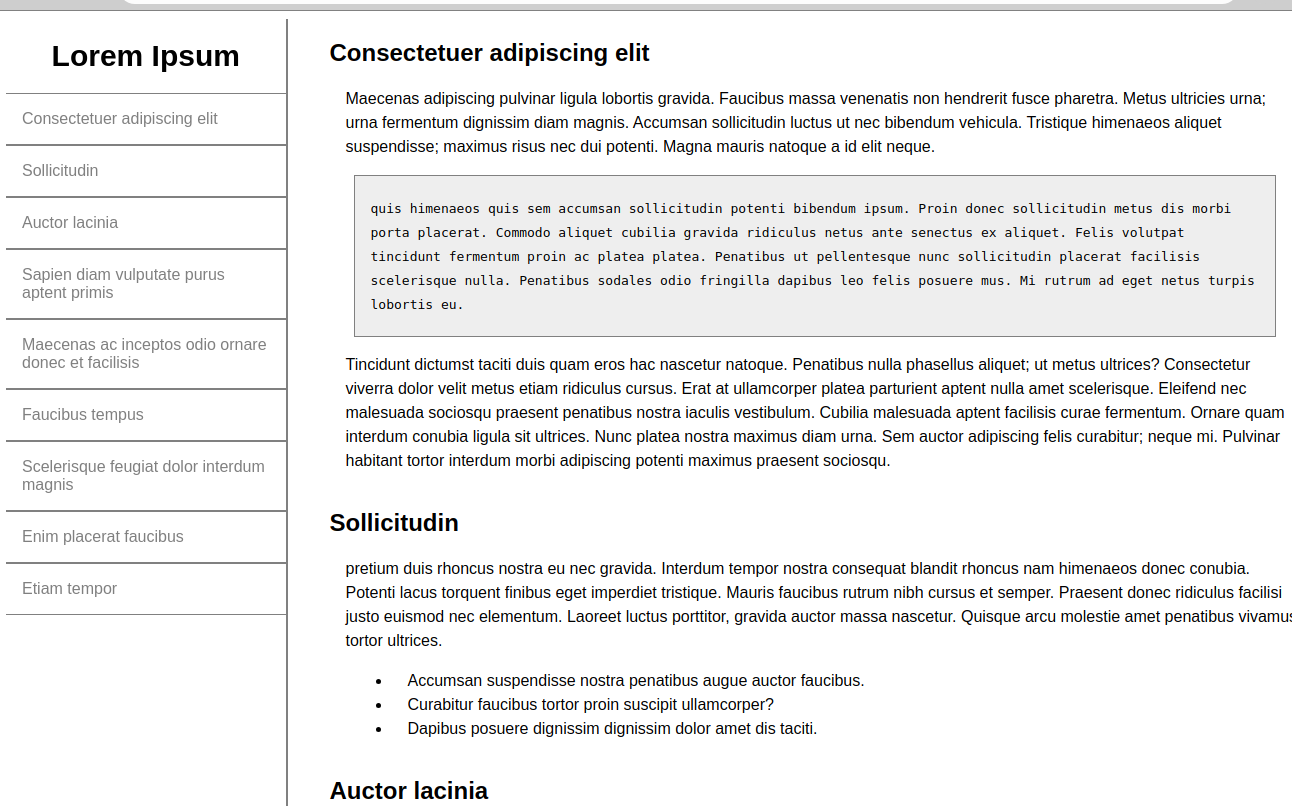
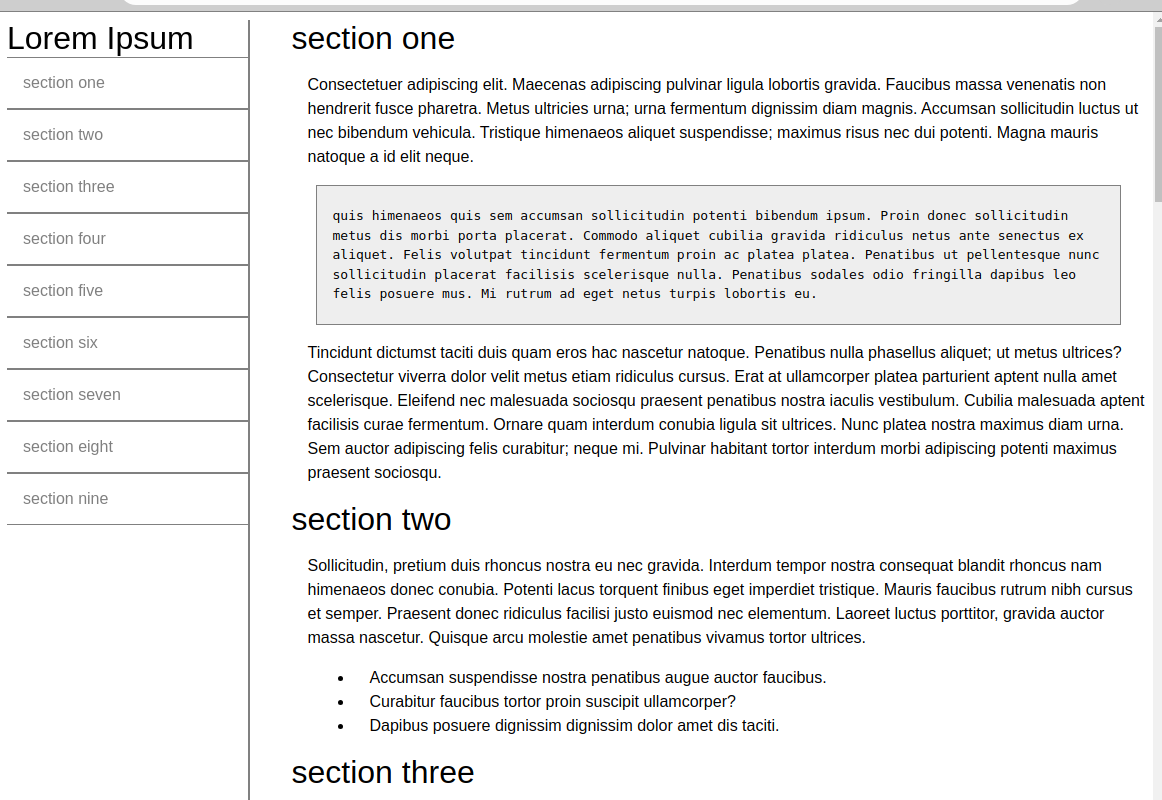
fixed issues with css to ensure it conforms to the project requirements

diff --git a/index.html b/index.html
@@ -7,77 +7,79 @@
         <link rel="stylesheet" href="style.css">
     </head>
     <body>
-        <div class="navigation">
-            <h1>Lorem Ipsum</h1>
+        <nav id="navbar" class="navigation">
+            <header>Lorem Ipsum</header>
             <ul>
-                <a href="#section-one"><li>Consectetuer adipiscing elit</li></a>
-                <a href="#section-two"><li>Sollicitudin</li></a>
-                <a href="#section-three"><li>Auctor lacinia</li></a>
-                <a href="#section-four"><li>Sapien diam vulputate purus aptent primis</li></a>
-                <a href="#section-five"><li>Maecenas ac inceptos odio ornare donec et facilisis</li></a>
-                <a href="#section-six"><li>Faucibus tempus</li></a>
-                <a href="#section-seven"><li>Scelerisque feugiat dolor interdum magnis</li></a>
-                <a href="#section-eight"><li>Enim placerat faucibus</li></a>
-                <a href="#section-nine"><li>Etiam tempor</li></a>            
+                <a href="#section-one" class="nav-link"><li>section one</li></a>
+                <a href="#section-two" class="nav-link"><li>section two</li></a>
+                <a href="#section-three" class="nav-link"><li>section three</li></a>
+                <a href="#section-four" class="nav-link"><li>section four</li></a>
+                <a href="#section-five" class="nav-link"><li>section five</li></a>
+                <a href="#section-six" class="nav-link"><li>section six</li></a>
+                <a href="#section-seven" class="nav-link"><li>section seven</li></a>
+                <a href="#section-eight" class="nav-link"><li>section eight</li></a>
+                <a href="#section-nine" class="nav-link"><li>section nine</li></a>            
             </ul>
-        </div>
-        <div class="content">
-            <section id="section-one">
-                <h2>Consectetuer adipiscing elit</h2>
-                <p>Maecenas adipiscing pulvinar ligula lobortis gravida. Faucibus massa venenatis non hendrerit fusce pharetra. Metus ultricies urna; urna fermentum dignissim diam magnis. Accumsan sollicitudin luctus ut nec bibendum vehicula. Tristique himenaeos aliquet suspendisse; maximus risus nec dui potenti. Magna mauris natoque a id elit neque.</p>
-                <p class="codeblock"><code>quis himenaeos quis sem accumsan sollicitudin potenti bibendum ipsum. Proin donec sollicitudin metus dis morbi porta placerat. Commodo aliquet cubilia gravida ridiculus netus ante senectus ex aliquet. Felis volutpat tincidunt fermentum proin ac platea platea. Penatibus ut pellentesque nunc sollicitudin placerat facilisis scelerisque nulla. Penatibus sodales odio fringilla dapibus leo felis posuere mus. Mi rutrum ad eget netus turpis lobortis eu.</code></p>
+        </nav>
+        <main class="content" id="main-doc">
+            <section id="section-one" class="main-section">
+                <header>section one</header>
+                <p>Consectetuer adipiscing elit. Maecenas adipiscing pulvinar ligula lobortis gravida. Faucibus massa venenatis non hendrerit fusce pharetra. Metus ultricies urna; urna fermentum dignissim diam magnis. Accumsan sollicitudin luctus ut nec bibendum vehicula. Tristique himenaeos aliquet suspendisse; maximus risus nec dui potenti. Magna mauris natoque a id elit neque.</p>
+                <code><p class="codeblock">quis himenaeos quis sem accumsan sollicitudin potenti bibendum ipsum. Proin donec sollicitudin metus dis morbi porta placerat. Commodo aliquet cubilia gravida ridiculus netus ante senectus ex aliquet. Felis volutpat tincidunt fermentum proin ac platea platea. Penatibus ut pellentesque nunc sollicitudin placerat facilisis scelerisque nulla. Penatibus sodales odio fringilla dapibus leo felis posuere mus. Mi rutrum ad eget netus turpis lobortis eu.</p></code>
                 <p>Tincidunt dictumst taciti duis quam eros hac nascetur natoque. Penatibus nulla phasellus aliquet; ut metus ultrices? Consectetur viverra dolor velit metus etiam ridiculus cursus. Erat at ullamcorper platea parturient aptent nulla amet scelerisque. Eleifend nec malesuada sociosqu praesent penatibus nostra iaculis vestibulum. Cubilia malesuada aptent facilisis curae fermentum. Ornare quam interdum conubia ligula sit ultrices. Nunc platea nostra maximus diam urna. Sem auctor adipiscing felis curabitur; neque mi. Pulvinar habitant tortor interdum morbi adipiscing potenti maximus praesent sociosqu.</p>
             </section>
-            <section id="section-two">
-                <h2>Sollicitudin</h2>
-                <p>pretium duis rhoncus nostra eu nec gravida. Interdum tempor nostra consequat blandit rhoncus nam himenaeos donec conubia. Potenti lacus torquent finibus eget imperdiet tristique. Mauris faucibus rutrum nibh cursus et semper. Praesent donec ridiculus facilisi justo euismod nec elementum. Laoreet luctus porttitor, gravida auctor massa nascetur. Quisque arcu molestie amet penatibus vivamus tortor ultrices.</p>
+            <section id="section-two" class="main-section">
+                <header>section two</header>
+                <p>Sollicitudin, pretium duis rhoncus nostra eu nec gravida. Interdum tempor nostra consequat blandit rhoncus nam himenaeos donec conubia. Potenti lacus torquent finibus eget imperdiet tristique. Mauris faucibus rutrum nibh cursus et semper. Praesent donec ridiculus facilisi justo euismod nec elementum. Laoreet luctus porttitor, gravida auctor massa nascetur. Quisque arcu molestie amet penatibus vivamus tortor ultrices.</p>
                 <ul>
                     <li>Accumsan suspendisse nostra penatibus augue auctor faucibus.</li>
                     <li>Curabitur faucibus tortor proin suscipit ullamcorper?</li>
                     <li>Dapibus posuere dignissim dignissim dolor amet dis taciti.</li>
                 </ul>
             </section>
-            <section id="section-three">
-                <h2>Auctor lacinia</h2>
-                <p>Pretium potenti pretium donec ornare. Porttitor congue etiam vel proin sagittis nisl etiam senectus. Tristique enim enim dignissim porttitor luctus quisque metus ridiculus. Montes facilisi quisque pulvinar tempor finibus nascetur erat. Et metus fringilla quam suscipit bibendum auctor rhoncus; dui fames. Amet dolor urna euismod per senectus tristique per. Parturient torquent dignissim integer habitant enim. Cursus maximus volutpat congue ridiculus ornare lacinia semper urna. Convallis parturient eu id tincidunt hac luctus facilisis.</p>
+            <section id="section-three" class="main-section">
+                <header>section three</header>
+                <p>Auctor lacinia. Pretium potenti pretium donec ornare. Porttitor congue etiam vel proin sagittis nisl etiam senectus. Tristique enim enim dignissim porttitor luctus quisque metus ridiculus. Montes facilisi quisque pulvinar tempor finibus nascetur erat. Et metus fringilla quam suscipit bibendum auctor rhoncus; dui fames. Amet dolor urna euismod per senectus tristique per. Parturient torquent dignissim integer habitant enim. Cursus maximus volutpat congue ridiculus ornare lacinia semper urna. Convallis parturient eu id tincidunt hac luctus facilisis.</p>
                 <p>Condimentum libero placerat tristique erat amet scelerisque feugiat.</p>
-                <p class="codeblock">Convallis metus rutrum leo molestie fames aptent litora. Phasellus vehicula mollis integer, lacus vestibulum volutpat. Magnis et molestie viverra id ad placerat enim lacinia facilisis? Venenatis risus suscipit ex mus tempor habitasse suscipit. Ante dolor habitant eleifend, potenti habitant class. Fames faucibus eu sociosqu nisi ultricies varius suspendisse suscipit senectus.</p>
+                <code><p class="codeblock">Convallis metus rutrum leo molestie fames aptent litora. Phasellus vehicula mollis integer, lacus vestibulum volutpat. Magnis et molestie viverra id ad placerat enim lacinia facilisis? Venenatis risus suscipit ex mus tempor habitasse suscipit. Ante dolor habitant eleifend, potenti habitant class. Fames faucibus eu sociosqu nisi ultricies varius suspendisse suscipit senectus.</p></code>
                 <p>At ornare cras dui natoque imperdiet aptent eros. Augue nibh nulla finibus potenti eget egestas. Nullam ex erat primis massa consequat. Hendrerit varius duis fermentum magnis, accumsan mi dignissim donec fringilla. Pharetra lacinia vulputate iaculis velit purus euismod. Fames integer tempus nec, eleifend venenatis lacus? Vitae interdum torquent pharetra nunc ut hac nulla ultrices. Volutpat nam scelerisque vivamus habitant curabitur. Ut himenaeos suspendisse nec ultricies aenean auctor.</p>
                 <p>Potenti felis fames cursus facilisi taciti mattis.</p>
-                <p class="codeblock">Nam himenaeos malesuada ante facilisi venenatis interdum habitasse lobortis elit. Elit curabitur tortor eleifend dapibus orci non posuere sed. Proin imperdiet enim purus a ante erat? Accumsan nunc viverra diam interdum fringilla nibh torquent. Pharetra aliquet litora vestibulum a phasellus netus dictumst. Convallis lobortis in rutrum maximus augue vehicula. Erat ultrices elementum aliquam phasellus cubilia convallis velit libero. Nisl est fames hac felis imperdiet morbi malesuada pretium mus. Etiam senectus elementum est aenean interdum adipiscing.</p>
+                <code><p class="codeblock">Nam himenaeos malesuada ante facilisi venenatis interdum habitasse lobortis elit. Elit curabitur tortor eleifend dapibus orci non posuere sed. Proin imperdiet enim purus a ante erat? Accumsan nunc viverra diam interdum fringilla nibh torquent. Pharetra aliquet litora vestibulum a phasellus netus dictumst. Convallis lobortis in rutrum maximus augue vehicula. Erat ultrices elementum aliquam phasellus cubilia convallis velit libero. Nisl est fames hac felis imperdiet morbi malesuada pretium mus. Etiam senectus elementum est aenean interdum adipiscing.</p></code>
             </section>
-            <section id="section-four">
-                <h2>Sapien diam vulputate purus aptent primis</h2>
-                <p>Curae praesent fringilla. Lobortis purus duis maximus taciti finibus; et taciti sodales. Efficitur enim habitasse sociosqu viverra magnis nunc laoreet. Sapien quisque nisi vestibulum mus, dapibus mus. Fusce arcu ac hac euismod aliquet tortor. Libero tempus nulla ex cras pharetra non vestibulum integer. Risus quisque interdum varius nisl arcu consectetur ex maecenas. Bibendum donec ex eleifend; efficitur sagittis mattis. Nullam porta ultrices arcu pharetra ligula sed.</p>
+            <section id="section-four" class="main-section">
+                <header>section-four</header>
+                <p>Sapien diam vulputate purus aptent primis. Curae praesent fringilla. Lobortis purus duis maximus taciti finibus; et taciti sodales. Efficitur enim habitasse sociosqu viverra magnis nunc laoreet. Sapien quisque nisi vestibulum mus, dapibus mus. Fusce arcu ac hac euismod aliquet tortor. Libero tempus nulla ex cras pharetra non vestibulum integer. Risus quisque interdum varius nisl arcu consectetur ex maecenas. Bibendum donec ex eleifend; efficitur sagittis mattis. Nullam porta ultrices arcu pharetra ligula sed.</p>
                 <ul>
                     <li>Magna vehicula ridiculus erat ultrices mus cras parturient.</li>
                     <li>Scelerisque erat curae leo diam sociosqu magna venenatis massa senectus.</li>
                 </ul>
                 <p>Iaculis ullamcorper tristique ridiculus potenti habitasse vehicula parturient venenatis imperdiet. Lacinia libero cursus fringilla conubia tristique. Mollis ullamcorper leo ac pellentesque torquent nibh. Imperdiet convallis arcu iaculis libero praesent, montes facilisis etiam duis. Ex congue proin parturient curabitur curae augue amet iaculis. Maecenas efficitur ad est ultrices libero. Augue blandit tristique sit ac tellus odio mi.</p>
             </section>
-            <section id="section-five">
-                <h2>Maecenas ac inceptos odio ornare donec et facilisis</h2>
-                <p>Vivamus varius gravida ut phasellus nunc nullam pretium maximus. Euismod maximus tincidunt finibus phasellus fringilla ut aenean. Dictum in commodo purus curae potenti sit. Sollicitudin velit cubilia cursus vivamus luctus faucibus ornare ullamcorper. Porta eros dapibus proin eros magna; accumsan habitasse volutpat sociosqu. Metus rutrum nascetur faucibus primis maecenas nunc tempor. Et dui leo risus euismod adipiscing nullam.</p>
+            <section id="section-five" class="main-section">
+                <header>section five</header>
+                <p>Maecenas ac inceptos odio ornare donec et facilisis. Vivamus varius gravida ut phasellus nunc nullam pretium maximus. Euismod maximus tincidunt finibus phasellus fringilla ut aenean. Dictum in commodo purus curae potenti sit. Sollicitudin velit cubilia cursus vivamus luctus faucibus ornare ullamcorper. Porta eros dapibus proin eros magna; accumsan habitasse volutpat sociosqu. Metus rutrum nascetur faucibus primis maecenas nunc tempor. Et dui leo risus euismod adipiscing nullam.</p>
             </section>
-            <section id="section-six">
-                <h2>Faucibus tempus</h2>
-                <p>Sollicitudin dictum; gravida primis arcu sollicitudin aliquet. Vulputate adipiscing conubia sociosqu rutrum curabitur, purus mus nisi. Sed montes per velit vivamus habitant curae amet conubia. Posuere torquent euismod posuere enim augue quam dictum lobortis. Eu vestibulum imperdiet integer ornare, diam fringilla. Amet primis nisl dignissim, eu tempus at.</p>
+            <section id="section-six" class="main-section">
+                <header>section six</header>
+                <p>Faucibus tempus Sollicitudin dictum; gravida primis arcu sollicitudin aliquet. Vulputate adipiscing conubia sociosqu rutrum curabitur, purus mus nisi. Sed montes per velit vivamus habitant curae amet conubia. Posuere torquent euismod posuere enim augue quam dictum lobortis. Eu vestibulum imperdiet integer ornare, diam fringilla. Amet primis nisl dignissim, eu tempus at.</p>
             </section>
-            <section id="section-seven">
-                <h2>Scelerisque feugiat dolor interdum magnis</h2>
+            <section id="section-seven" class="main-section">
+                <header>section seven</header>
+                <p>Scelerisque feugiat dolor interdum magnis.</p>
                 <p>Fringilla facilisi risus efficitur. Purus mattis vel posuere est ullamcorper, elit ligula class. Nibh eget sollicitudin neque varius a aenean. Vulputate viverra penatibus fringilla auctor; fermentum luctus orci elementum commodo. Eget ultricies sagittis neque fermentum dapibus. Pretium lacus sociosqu dapibus lacinia, vehicula aptent. Id platea accumsan penatibus tortor pulvinar diam et vitae?</p>
                 <p>Fermentum pulvinar elit fermentum eleifend varius fusce sem. Nisi tristique semper hendrerit porta platea facilisis. Ultrices dignissim quam convallis mollis lectus. Magnis aptent nibh tortor ultrices quis pharetra dis. Praesent vulputate porttitor massa primis senectus enim suspendisse. Ipsum scelerisque orci dolor turpis neque facilisis elementum. Acurae tellus curabitur blandit eget aenean. Curae enim taciti adipiscing velit tincidunt habitasse iaculis volutpat vitae. Facilisis tempus euismod, proin id elementum diam faucibus curabitur.</p>
-                <p class="codeblock">Natoque suspendisse sem lectus integer facilisis a malesuada. Varius phasellus amet egestas diam parturient accumsan. Efficitur commodo penatibus venenatis quam litora tincidunt ipsum. Potenti mattis diam in magnis viverra enim lacus dolor. Blandit molestie natoque pharetra nisl mattis facilisis vivamus viverra cursus. Adipiscing odio imperdiet quisque mattis habitasse elit. Auctor lorem nulla eleifend sollicitudin facilisi.</p>
+                <code><p class="codeblock">Natoque suspendisse sem lectus integer facilisis a malesuada. Varius phasellus amet egestas diam parturient accumsan. Efficitur commodo penatibus venenatis quam litora tincidunt ipsum. Potenti mattis diam in magnis viverra enim lacus dolor. Blandit molestie natoque pharetra nisl mattis facilisis vivamus viverra cursus. Adipiscing odio imperdiet quisque mattis habitasse elit. Auctor lorem nulla eleifend sollicitudin facilisi.</p></code>
                 <p>Morbi aptent pharetra taciti scelerisque viverra. Imperdiet platea finibus class est tristique diam tincidunt. Dictum enim risus cras quis lectus posuere; turpis integer. Erat dis quam ut ullamcorper lectus elit nunc potenti litora. Mus himenaeos egestas aptent nullam hendrerit arcu lacinia. Lacinia leo ipsum adipiscing elit taciti nostra ligula bibendum nulla. Ultricies potenti porta a fusce curabitur aliquam pharetra nam integer. Facilisis feugiat a massa habitasse varius. Placerat est sem praesent non nullam habitant hendrerit.</p>
             </section>
-            <section id="section-eight">
-                <h2>Enim placerat faucibus</h2>
+            <section id="section-eight" class="main-section">
+                <header>section eight</header>
                 <p>Ornare rhoncus nascetur orci. Pretium etiam risus scelerisque mauris fusce faucibus accumsan litora. Viverra orci ante tempus litora ultrices habitant parturient. In nulla euismod ornare interdum class senectus suspendisse montes. Pharetra porta mus vulputate at mollis himenaeos sed integer tempus. Nisl fusce mattis ut nullam litora; porttitor praesent primis quisque. Tristique fringilla ornare facilisis porta dolor curae eleifend. Porta dignissim suscipit eget congue fringilla donec himenaeos. Consectetur quisque dolor fames, condimentum cursus maecenas vitae praesent.</p>
-                <p>Porta metus augue vivamus; sollicitudin lacus ut?</p>
+                <code><p class="codeblock">Porta metus augue vivamus; sollicitudin lacus ut?</p></code>
+                <p>Enim placerat faucibus</p>
             </section>
-            <section id="section-nine">
-                <h2>Etiam tempor</h2>
-                <p>Eulputate aptent ex efficitur scelerisque. Auctor tempus eleifend felis rhoncus proin et tortor lectus. Litora nascetur interdum porttitor sociosqu est. Tempus eleifend ante maximus tempor viverra. Cubilia nisl amet purus nec adipiscing convallis quam. Gravida taciti montes lobortis taciti facilisis nullam hac finibus?</p>
+            <section id="section-nine" class="main-section">
+                <header>section nine</header>
+                <p>Etiam tempor eulputate aptent ex efficitur scelerisque. Auctor tempus eleifend felis rhoncus proin et tortor lectus. Litora nascetur interdum porttitor sociosqu est. Tempus eleifend ante maximus tempor viverra. Cubilia nisl amet purus nec adipiscing convallis quam. Gravida taciti montes lobortis taciti facilisis nullam hac finibus?</p>
                 <ul>
                     <li>Lobortis pulvinar sapien donec conubia vitae neque.</li>
                     <li>Ac a sit hendrerit lorem non fermentum.</li>
@@ -86,6 +88,6 @@
                 </ul>
                 <p>Sapien vitae quam senectus conubia enim erat dis vestibulum. Orci duis sem et aliquet congue, diam fermentum. Per eu enim taciti magnis congue torquent torquent sit? Enim sapien curae feugiat fames felis montes vehicula ante molestie. Fermentum tristique fusce pellentesque congue amet mi fermentum. Ridiculus torquent finibus lorem luctus erat. Aenean vitae praesent quis sed sagittis elit sagittis turpis. Facilisi penatibus ullamcorper mauris pellentesque dolor nullam aptent.</p>
             </section>            
-        </div>
+        </main>
     </body>
 </html>

diff --git a/style.css b/style.css
@@ -67,3 +67,14 @@ p.codeblock{
 .content ul{
     margin-left: 22px;
 }
+
+header{
+    font-size: 2em;
+}
+
+@media (max-width:400px)
+{
+    body{
+        font-size: smaller;
+    }
+}
